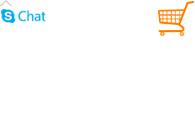
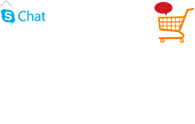
duy

Changed region(s): [[0.7692, 0.0, 1.0, 0.3629]]

diff --git a/sites/all/modules/shop/View/js/shop.js b/sites/all/modules/shop/View/js/shop.js
@@ -3,6 +3,7 @@ jQuery(document).ready(function($){
 	check_valid_form.check_reg_shop();
 	check_valid_form.change_pass();
 	check_valid_form.change_info();
+	check_valid_form.forgot_pass();
 	check_valid_form.post_product();
 
 	tab_select.detail_tab();
@@ -122,6 +123,18 @@ check_valid_form = {
 				return false;
 			}else{
 				province.removeClass('error');
+			}
+		});
+	},
+	forgot_pass:function(){
+		jQuery("#submitForgotPass").click(function(){
+			var mail = jQuery('.formForgotPass input[name="email_shop"]');
+			if(mail.val() == ''){
+				jAlert('Email không được trống!', 'Cảnh báo');
+				mail.addClass('error').focus();
+				return false;
+			}else{
+				mail.removeClass('error');
 			}
 		});
 	},

diff --git a/sites/all/modules/frontend/View/css/site.css b/sites/all/modules/frontend/View/css/site.css
@@ -279,26 +279,27 @@ span#logo{
     float: left;
     height: 46px;
     margin-left: 105px;
-    margin-top: -2px;
+    margin-top: -10px;
     position: relative;
     width: 50px;
 }
 .shopping-cart .num-item {
-    color: #cc0000;
+    border-radius: 100%;
+    color: #fff;
     cursor: pointer;
     font-size: 11px;
     font-weight: 400;
     height: 16px;
-    left: 15px;
+    left: 12px;
     line-height: 16px;
     overflow: hidden;
     padding: 0 3px;
     position: absolute;
     text-align: center;
     text-overflow: ellipsis;
-    top: -5px;
+    top: 0;
     white-space: nowrap;
-    width: 25px;
+    width: 14px;
 }
 /*content*/
 .box-menu-list{

diff --git a/sites/all/modules/shop/View/css/shop.css b/sites/all/modules/shop/View/css/shop.css
@@ -1115,3 +1115,13 @@ table.list-pay span.price {
     font-size: 12px;
     font-style: italic;
 }
+.forgotpass{
+    color: #333;
+    display: inline-block;
+    font-style: italic;
+    margin-left: 10px;
+    margin-top: 2px;
+}
+.forgotpass:hover{
+    text-decoration: underline;
+}

diff --git a/sites/all/modules/shop/View/tpl/reg/forgotPass.tpl.php b/sites/all/modules/shop/View/tpl/reg/forgotPass.tpl.php
@@ -1,0 +1,17 @@
+<?php global $base_url;?>
+
+<div class="main-view-post box-register">
+	<div class="form-login">
+		<h1 class="title-head">Quên mật khẩu<span></h1>
+		
+		<form class="formForgotPass" method="post" action="<?php echo $base_url?>/quen-mat-khau.html" class="form-inline">
+			<div class="form-group">
+				<label class="control-label">Email cần khôi phục mật khẩu<span>(*)</span></label>
+				<input type="text" id="email_shop" class="form-control" name="email_shop">
+			</div>
+			<input type="hidden" name="txtFormForgotPass" id="txtFormForgotPass" value="txtFormForgotPass"/>
+			<button type="submit" id="submitForgotPass" class="btn btn-primary">Đăng nhập</button>
+		</form>
+		
+	</div>
+</div>

diff --git a/sites/all/modules/shop/Controller/RegShopController.php b/sites/all/modules/shop/Controller/RegShopController.php
@@ -281,6 +281,18 @@ class RegShopController{
 		RegShop::logoutShop();
 	}
 
+	public function forgotPass(){
+		global $base_url;
+		
+		if(!empty($_POST)){
+			$email_shop = FunctionLib::getParam('email_shop','');
+			if($email_shop == ''){
+				drupal_set_message('Email khôi phục mật khẩu không được trống. Hệ thống sẽ gửi mail tới địa chỉ này!');
+				drupal_goto($base_url.'/quen-mat-khau.html');
+			}
+		}
+		return theme('forgotPass');
+	}
 	public function ajaxCheckShopExist(){
 		global $base_url, $user_shop;
 		

diff --git a/sites/all/modules/shop/View/tpl/reg/loginShop.tpl.php b/sites/all/modules/shop/View/tpl/reg/loginShop.tpl.php
@@ -17,6 +17,7 @@
 			</div>
 			<input type="hidden" name="txtFormNameLogin" id="txtFormNameLogin" value="txtFormNameLogin"/>
 			<button type="submit" id="submitLogin" class="btn btn-primary">Đăng nhập</button>
+			<a class="forgotpass" href="<?php echo $base_url ?>/quen-mat-khau.html" rel="nofollow">Bạn quên mật khẩu?</a>
 		</form>
 	</div>
 </div>
